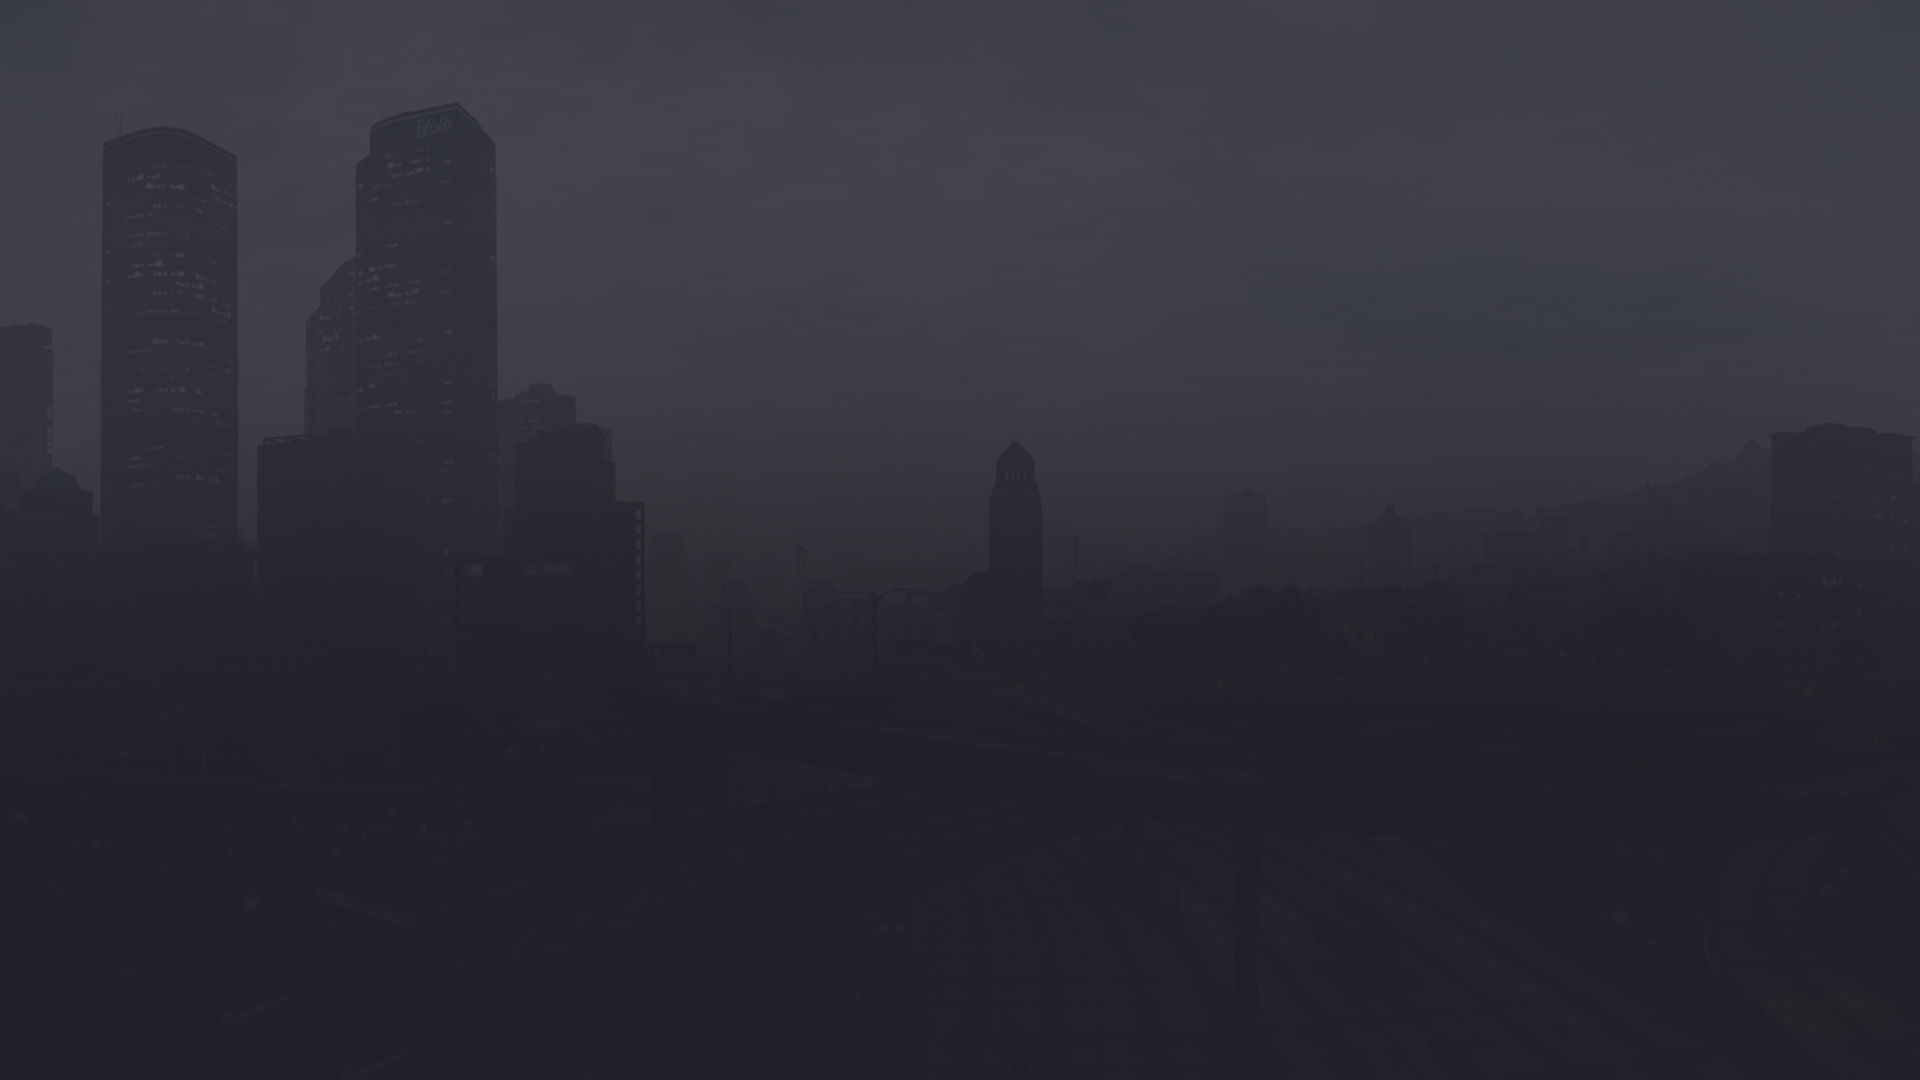
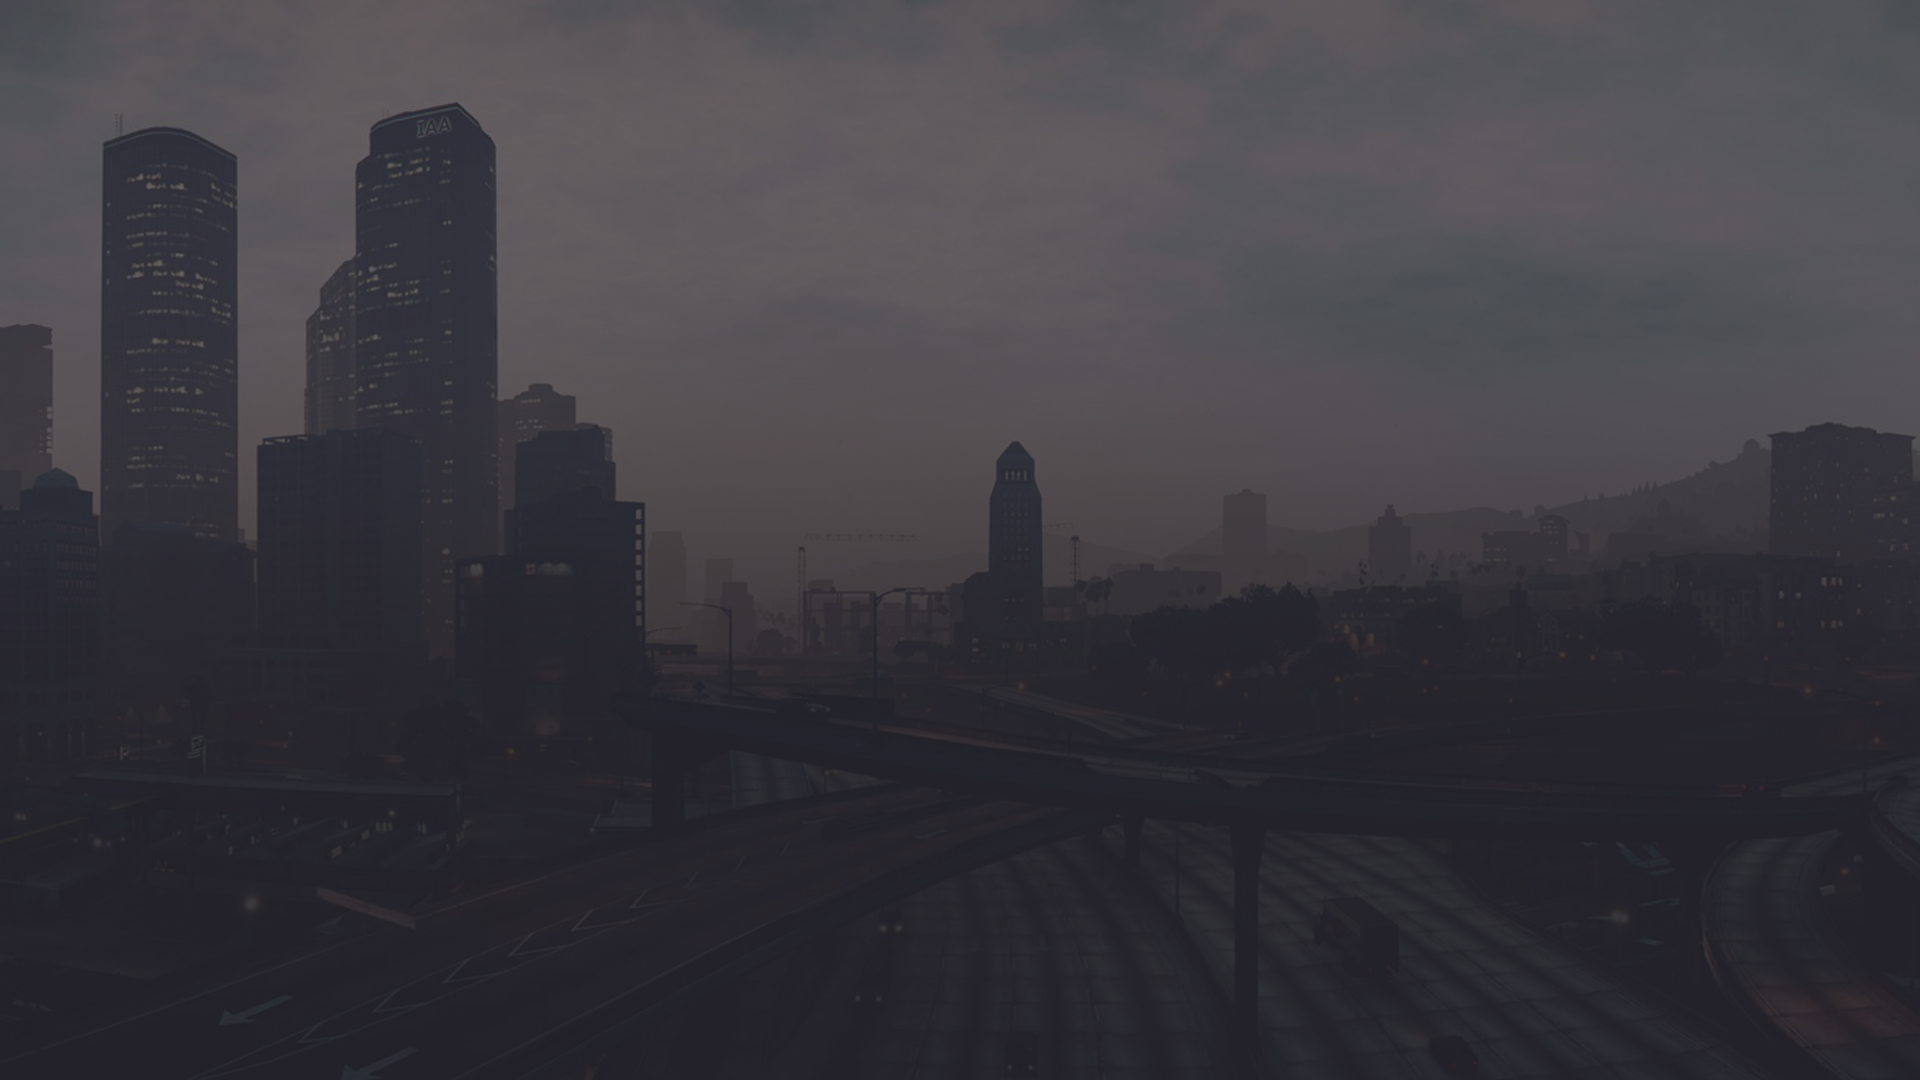
back refresh

diff --git a/rules.html b/rules.html
@@ -91,6 +91,48 @@
 					</div>
 					<div class="rules-text" id="main_rules">
 						Пажилое выделение текста должно выглядеть так 
+						Пажилое обновление сигодня Дабавили пажилой рэпп 
+						Рэпуй на просторах сансара ролевая игра стань лучшим рэперам в сфере 
+						GTA 5 Ну текст Алиента придумает
+						Пажилое обновление сигодня Дабавили пажилой рэпп 
+						Рэпуй на просторах сансара ролевая игра стань лучшим рэперам в сфере 
+						GTA 5 Ну текст Алиента придумает
+						Пажилое обновление сигодня Дабавили пажилой рэпп 
+						Рэпуй на просторах сансара ролевая игра стань лучшим рэперам в сфере 
+						GTA 5 Ну текст Алиента придумает
+						Пажилое обновление сигодня Дабавили пажилой рэпп 
+						Рэпуй на просторах сансара ролевая игра стань лучшим рэперам в сфере 
+						GTA 5 Ну текст Алиента придумает
+						Пажилое обновление сигодня Дабавили пажилой рэпп 
+						Рэпуй на просторах сансара ролевая игра стань лучшим рэперам в сфере 
+						GTA 5 Ну текст Алиента придумает
+						Пажилое обновление сигодня Дабавили пажилой рэпп 
+						Рэпуй на просторах сансара ролевая игра стань лучшим рэперам в сфере 
+						GTA 5 Ну текст Алиента придумает
+						Пажилое обновление сигодня Дабавили пажилой рэпп 
+						Рэпуй на просторах сансара ролевая игра стань лучшим рэперам в сфере 
+						GTA 5 Ну текст Алиента придумает
+						Пажилое обновление сигодня Дабавили пажилой рэпп 
+						Рэпуй на просторах сансара ролевая игра стань лучшим рэперам в сфере 
+						GTA 5 Ну текст Алиента придумает
+						Пажилое обновление сигодня Дабавили пажилой рэпп 
+						Рэпуй на просторах сансара ролевая игра стань лучшим рэперам в сфере 
+						GTA 5 Ну текст Алиента придумает
+						Пажилое обновление сигодня Дабавили пажилой рэпп 
+						Рэпуй на просторах сансара ролевая игра стань лучшим рэперам в сфере 
+						GTA 5 Ну текст Алиента придумает
+						Пажилое обновление сигодня Дабавили пажилой рэпп 
+						Рэпуй на просторах сансара ролевая игра стань лучшим рэперам в сфере 
+						GTA 5 Ну текст Алиента придумает
+						Пажилое обновление сигодня Дабавили пажилой рэпп 
+						Рэпуй на просторах сансара ролевая игра стань лучшим рэперам в сфере 
+						GTA 5 Ну текст Алиента придумает
+						Пажилое обновление сигодня Дабавили пажилой рэпп 
+						Рэпуй на просторах сансара ролевая игра стань лучшим рэперам в сфере 
+						GTA 5 Ну текст Алиента придумает
+						Пажилое обновление сигодня Дабавили пажилой рэпп 
+						Рэпуй на просторах сансара ролевая игра стань лучшим рэперам в сфере 
+						GTA 5 Ну текст Алиента придумает
 					</div>
 				</div>
 			</div>

diff --git a/css/style.css b/css/style.css
@@ -6,14 +6,18 @@
 	box-sizing: border-box;
 	user-select: none;
 }
+body
+{
+	overflow:hidden;
+}
 .container
 {
 	display:none;
-	width:100%;
+	width:102%;
 	height:100vh;
-	background:url(../img/back.png) no-repeat;
+	background:url(../img/back1.png) no-repeat;
 	background-position: top;
-	background-size: 102%;
+	background-size: cover;
 	position: relative;	
 	overflow:hidden;
 	will-change:background;
@@ -94,6 +98,7 @@
 	top:50%;
 	left:50%;
 	transform:translate(-50%,-50%);
+	flex-wrap:wrap;
 	display: flex;
 	justify-content: space-around;
 	align-items: center;
@@ -611,15 +616,18 @@ span.bold
 	background: linear-gradient(to left, rgba(223, 238, 8, 1), rgba(223, 238, 8,0.5), rgba(223, 238, 8,0.25) rgba(223, 238, 8,1));
 	animation:10s background-to-left ease-in-out infinite alternate;
 }
-.rules-wrapper .rules-block::-webkit-scrollbar
+.rules-wrapper .rules-block::-webkit-scrollbar, .rules-wrapper .rules-desk .rules-text-wrapper::-webkit-scrollbar
 {
     width: 4px;
 }
-.rules-wrapper .rules-block::-webkit-scrollbar-track {
-	margin:0 20px;
+.rules-wrapper .rules-block::-webkit-scrollbar-track, .rules-wrapper .rules-desk .rules-text-wrapper::-webkit-scrollbar-track {
+	margin:2px 20px 6px 20px;
 	background:rgba(0,0,0,0);
 }
-.rules-wrapper .rules-block::-webkit-scrollbar-thumb
+.rules-wrapper .rules-desk .rules-text-wrapper::-webkit-scrollbar-track {
+	margin:55px 20px 0 20px;
+}
+.rules-wrapper .rules-block::-webkit-scrollbar-thumb, .rules-wrapper .rules-desk .rules-text-wrapper::-webkit-scrollbar-thumb
 {
     background: #fbe401;
 	border-radius: 5px;
@@ -651,7 +659,7 @@ span.bold
 	background-position: center;
 	background-size: contain;
 	margin-left:35px;
-	padding:25px 45px 0 45px;
+	padding:25px 35px 25px 35px;
 	animation-duration: 0.9s!important;
 }
 .rules-wrapper .rules-desk .rules-title
@@ -664,13 +672,19 @@ span.bold
 	font-weight: 500;
 	text-align: center;
 	color:#f9f9f9;
-	margin-bottom:50px;
+	margin-bottom:20px;
+}
+.rules-wrapper .rules-desk .rules-text-wrapper
+{
+	overflow-y:scroll;
+	max-height:98.5%;
+	padding-right: 3%;
 }
 .rules-wrapper .rules-desk .rules-text
 {
 	font-size:15.62px;
 	text-align: left;
-	color:#f9f9f9;
+	color:#f9f9f9;	
 }
 .rules-wrapper .rules-desk .rules-title, .rules-wrapper .rules-desk .rules-text, .rules-wrapper .rules-desk .rules-text-wrapper
 {
@@ -907,6 +921,10 @@ span.bold
 }
 @media (max-width:1366px) and (max-height:768px)
 {
+	.main-wrapper
+	{
+		width:85%;
+	}
 	.const-wrapper .gta-block, .const-wrapper .rage-block, .const-wrapper .notif-block
 	{
 		margin:0 10px;
@@ -1081,5 +1099,21 @@ span.bold
 	}
 	.social-block .social-wrap .ico-block .count {
 		font-size: 17.16px;
+	}
+}
+@media (max-width:1280px) and (max-height:800px)
+{
+	.news-wrapper, .guides-wrapper {
+		width:50%;
+	}
+	.rules-wrapper .rules-desk {
+		width: 600px;
+		height: 550px;
+	}
+}
+@media (max-width:1024px) and (max-height:768px)
+{
+	.news-wrapper, .guides-wrapper {
+		width:60%;
 	}
 }
